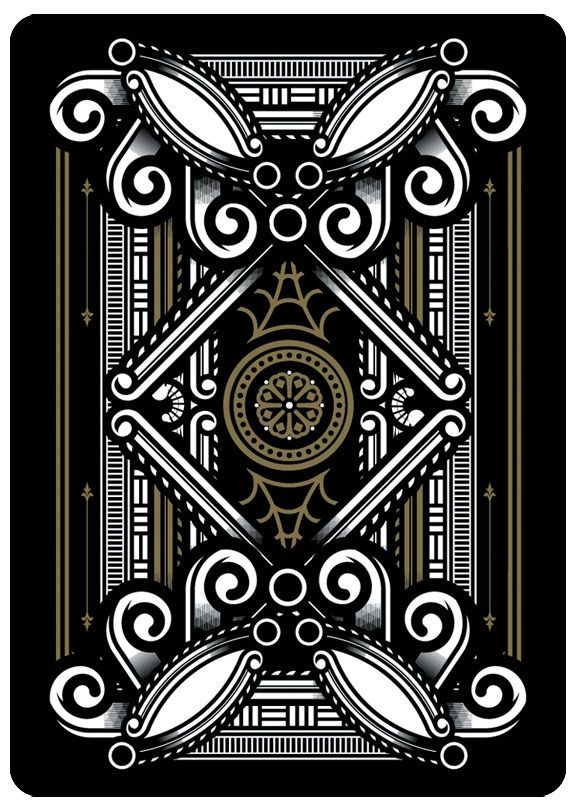
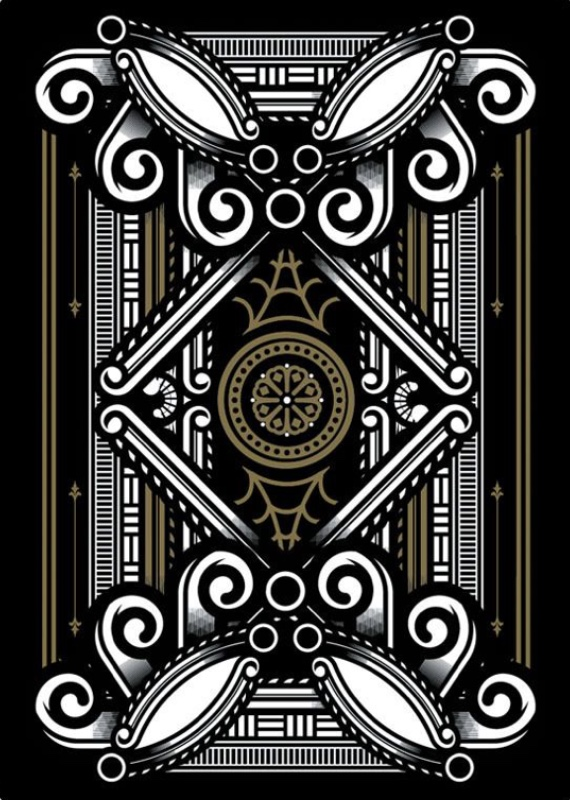
feat: set resize to card

diff --git a/app/animations/card.tsx b/app/animations/card.tsx
@@ -25,12 +25,11 @@ export default function WinningCardScreen() {
           }}
           key='1'
         >
-          <CardBack backgroundColor='black' borderColor='#661122'>
+          <CardBack backgroundColor='black' borderColor='#fbd84d'>
             <Image
-              source={require('@/assets/images/card-back/back04.jpg')}
-              style={{ alignSelf: 'center', flex: 1, marginVertical: -50 }}
+              source={require('@/assets/images/card-back/back05.jpg')}
+              style={{ alignSelf: 'center', flex: 1 }}
               resizeMode='contain'
-              resizeMethod='auto'
             />
           </CardBack>
         </View>
@@ -45,9 +44,8 @@ export default function WinningCardScreen() {
           <CardBack backgroundColor='black' borderColor='#958855'>
             <Image
               source={require('@/assets/images/card-back/back03.jpg')}
-              style={{ alignSelf: 'center', flex: 1, marginVertical: -10 }}
+              style={{ alignSelf: 'center', flex: 1 }}
               resizeMode='contain'
-              resizeMethod='auto'
             />
           </CardBack>
         </View>
@@ -62,9 +60,8 @@ export default function WinningCardScreen() {
           <CardBack backgroundColor='black' borderColor='#000'>
             <Image
               source={require('@/assets/images/card-back/back02.jpg')}
-              style={{ alignSelf: 'center', flex: 1, marginVertical: -10 }}
+              style={{ alignSelf: 'center', flex: 1 }}
               resizeMode='contain'
-              resizeMethod='auto'
             />
           </CardBack>
         </View>
@@ -76,17 +73,59 @@ export default function WinningCardScreen() {
           }}
           key='4'
         >
-          <CardBack
-            backgroundColor='black'
-            borderColor='#ddd'
-            // style={{ marginBottom: 0 }}
-            key={4}
-          >
+          <CardBack backgroundColor='black' borderColor='#ddd' key={4}>
             <Image
               source={require('@/assets/images/card-back/back01.jpg')}
-              style={{ alignSelf: 'center', flex: 1, marginVertical: -10 }}
+              style={{ alignSelf: 'center', flex: 1 }}
               resizeMode='contain'
-              resizeMethod='auto'
+            />
+          </CardBack>
+        </View>
+        <View
+          style={{
+            flex: 1,
+            justifyContent: 'center',
+            alignItems: 'center',
+          }}
+          key='5'
+        >
+          <CardBack backgroundColor='black' borderColor='#f2483e' key={4}>
+            <Image
+              source={require('@/assets/images/card-back/back07.jpg')}
+              style={{ alignSelf: 'center', flex: 1 }}
+              resizeMode='contain'
+            />
+          </CardBack>
+        </View>
+        <View
+          style={{
+            flex: 1,
+            justifyContent: 'center',
+            alignItems: 'center',
+          }}
+          key='6'
+        >
+          <CardBack backgroundColor='black' borderColor='#095761' key={4}>
+            <Image
+              source={require('@/assets/images/card-back/back06.jpg')}
+              style={{ alignSelf: 'center', flex: 1 }}
+              resizeMode='contain'
+            />
+          </CardBack>
+        </View>
+        <View
+          style={{
+            flex: 1,
+            justifyContent: 'center',
+            alignItems: 'center',
+          }}
+          key='6'
+        >
+          <CardBack backgroundColor='black' borderColor='#9a01c3' key={4}>
+            <Image
+              source={require('@/assets/images/card-back/back08.jpg')}
+              style={{ alignSelf: 'center', flex: 1 }}
+              resizeMode='contain'
             />
           </CardBack>
         </View>

diff --git a/components/animated/CardBack.tsx b/components/animated/CardBack.tsx
@@ -17,15 +17,28 @@ interface CardBackProps {
    * Estilos adicionais para personalização do container da carta.
    */
   style?: ViewStyle;
+  /**
+   * Porcentagem da altura original 570x800
+   * @default 0.5
+   * @satisfies 0 < size < 1
+   */
+  scale?: number;
   children?: ReactNode;
 }
+
+const WIDTH = 570;
+const HEIGHT = 800;
 
 export const CardBack: React.FC<CardBackProps> = ({
   backgroundColor = '#fff',
   borderColor = '#fff',
   style,
   children,
+  scale = 0.5,
 }) => {
+  const resizedWidth = WIDTH * scale;
+  const resizedHeight = HEIGHT * scale;
+
   // Animated.ValueXY para rastrear os deslocamentos dx e dy
   const tilt = useRef(new Animated.ValueXY({ x: 0, y: 0 })).current;
 
@@ -71,8 +84,8 @@ export const CardBack: React.FC<CardBackProps> = ({
       {...panResponder.panHandlers}
       style={[
         styles.card,
+        { width: resizedWidth, height: resizedHeight },
         { backgroundColor },
-        { borderColor },
         style,
         {
           transform: [
@@ -83,15 +96,13 @@ export const CardBack: React.FC<CardBackProps> = ({
         },
       ]}
     >
-      <View style={styles.art}>{children}</View>
+      <View style={[{ borderColor }, styles.art]}>{children}</View>
     </Animated.View>
   );
 };
 
 const styles = StyleSheet.create({
   card: {
-    width: 320,
-    height: 450,
     borderRadius: 20,
     backgroundColor: '#fff',
     transform: [
@@ -104,12 +115,12 @@ const styles = StyleSheet.create({
     shadowOpacity: 0.5,
     shadowRadius: 4,
     elevation: 8,
-    borderWidth: 5,
   },
   art: {
     flex: 1,
     borderRadius: 20,
-    zIndex: 0,
+    zIndex: -1000,
     overflow: 'hidden',
+    borderWidth: 5,
   },
 });
